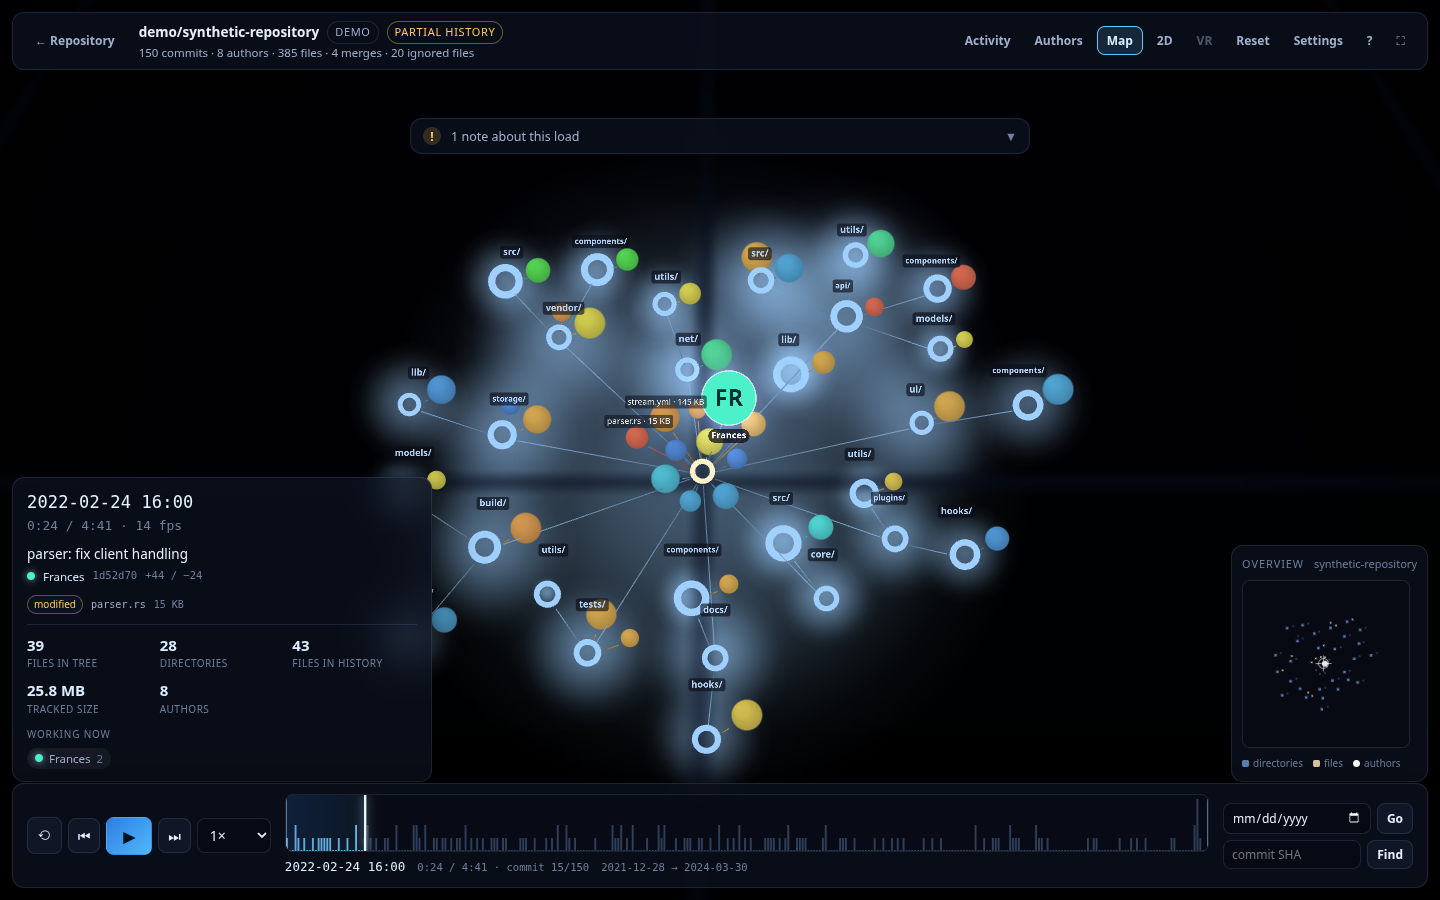
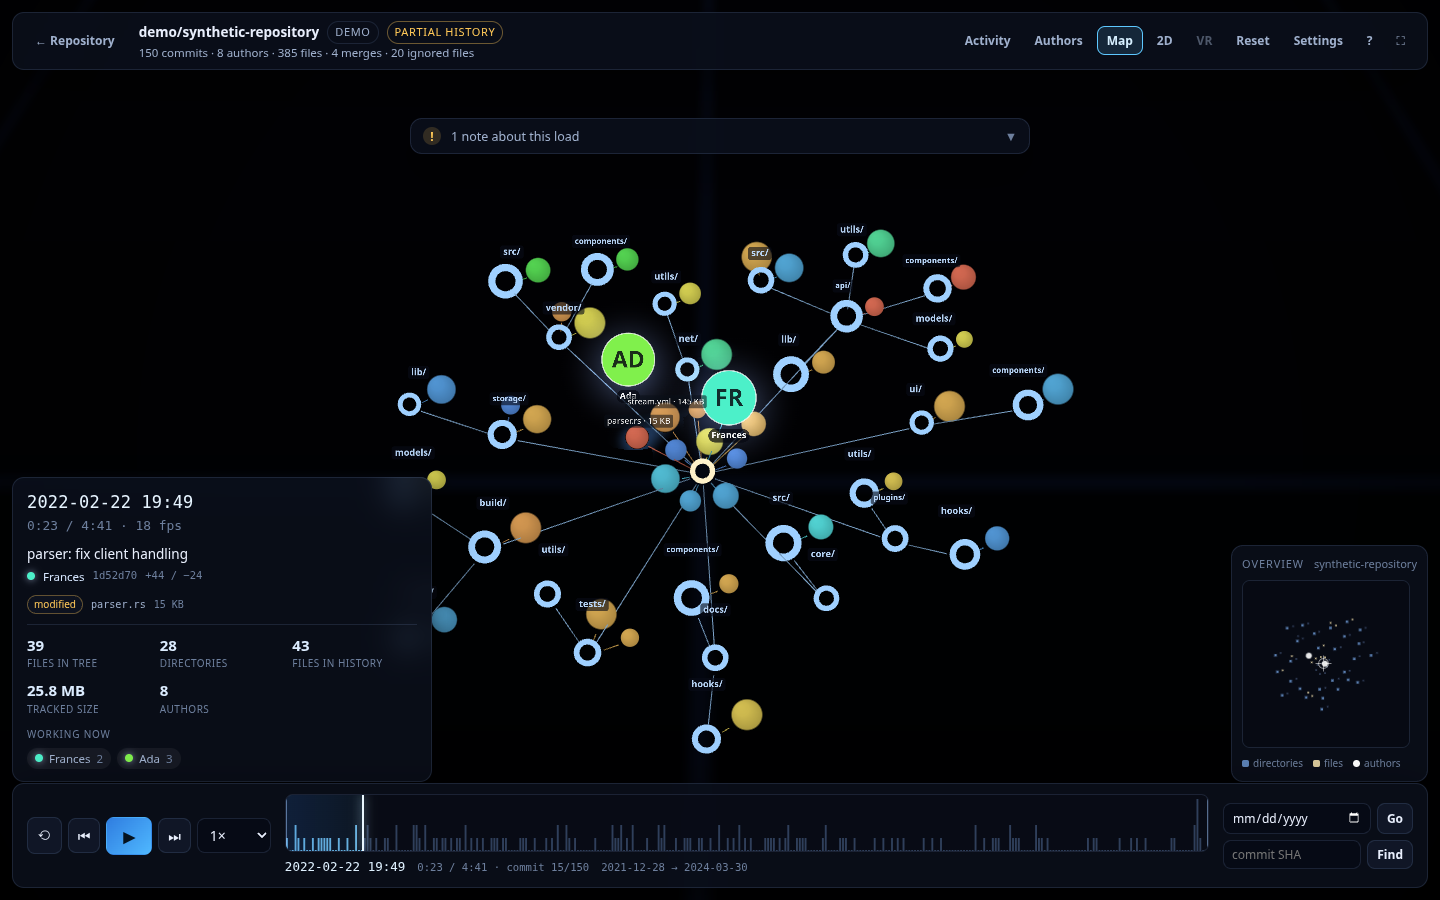
docs: describe the VR timeline, free camera and new scene defaults
- Document the in-scene VR panel, its headset-relative placement, the 2 s
  gaze dwell and the between-the-eyes gaze ray.
- Document gamepad flight and gyroscope head tracking, including the click
  to recalibrate.
- Remove the folder glow from the renderer descriptions and update the
  activity plasma defaults (5 s decay, new weight/radius/height/march).
- Refresh both screenshots with the new plasma defaults.

Changed region(s): [[0.25, 0.2178, 0.75, 0.8711], [0.25, 0.9022, 0.2812, 0.9644]]

diff --git a/README.md b/README.md
@@ -165,7 +165,7 @@ tab. The decoded track is analysed once with an FFT (no `AnalyserNode`, so the
 result does not depend on the machine's real-time performance) into a few
 envelopes sampled every ~21 ms:
 
-* **bass** (25–150 Hz) rotates the hue of each folder's glow and makes it
+* **bass** (25–150 Hz) rotates the plasma's hue and makes it
   breathe;
 * **claps** — short transients in 1.8–5.8 kHz — cycle and flash the file
   colours, so the palette changes with the beat;
@@ -256,6 +256,41 @@ The **2D** button in the stage toolbar switches to a flat top-down view with the
 framing, where a left-drag pans; **Reset** (or `C`) returns to the default 3D angle. Manual input
 pauses the automatic view for a few seconds.
 
+### Gamepad and head tracking
+
+The camera can also be flown directly, which is what turns the 3D view from a
+picture into a place. Both devices are opt-in in **Settings → Camera → Gamepad &
+head tracking**, and until one of them is enabled *and* actually reporting,
+nothing about the camera changes.
+
+A gamepad (standard mapping) flies a free 6-DOF camera:
+
+| input | action |
+| --- | --- |
+| left stick | rotate: yaw (left/right) and pitch (away/towards) |
+| right stick | roll (left/right) and thrust (away/towards) |
+| D-pad | strafe (left/right) and rise / sink (up/down) |
+| RT / LT | forward / back thrust (analog, added to the stick) |
+| A / cross | recalibrate the head tracking |
+
+Rotation is applied as a quaternion delta in the camera's own frame, so the sticks
+behave like a head-mounted rotation and roll is possible at all — an orbit camera
+cannot express roll, which is why a pad switches the view into a free mode. The
+orbit state is remembered: **Reset** (or simply dragging with the mouse) hands the
+camera straight back to the automatic tabletop view, and the automatic follow
+never fights the sticks while you fly.
+
+**Head tracking** follows the device's gyroscope: the camera orientation is the
+device orientation mapped into the scene, and its up vector is the device's up
+rotated by the gyroscope value — so the horizon follows your head instead of
+staying glued to the plane. Because the sensor is absolute, a click on the scene
+(or the gamepad's A button) **recalibrates** it: the current device pose becomes
+the reference and the view does not move, so you can aim the scene exactly at the
+orientation you are holding, hand the device to someone else, or turn away and
+back, and one click re-aims it without a jump. iOS asks for motion-sensor
+permission the first time the toggle is switched on; a refusal is reported in the
+panel instead of failing silently.
+
 ### VR and 3D spheres
 
 The stage toolbar has a **VR** button that opens the same scene in an immersive WebXR session:
@@ -263,15 +298,27 @@ The stage toolbar has a **VR** button that opens the same scene in an immersive 
 * support is probed once with `navigator.xr.isSessionSupported('immersive-vr')`. When the browser
   has no XR device (or no `navigator.xr` at all) the button is disabled and says so, instead of
   failing when it is pressed;
-* entering a session enables `renderer.xr`, requests the `local-floor` reference space and puts the
-  camera on an XR rig, so the tree sits in front of you like a table you can walk around; leaving
-  the session (or the headset ending it) restores the exact previous camera and scene transform;
+* entering a session enables `renderer.xr`, requests the `local-floor` reference space and stands you
+  at the **scene origin at the same eye height the on-screen camera has** (the tree keeps its
+  tabletop scale, centred on the origin), so what you see matches the flat view; leaving the session
+  (or the headset ending it) restores the exact previous camera and scene transform;
 * while a session is running the frames come from the XR animation loop and the glyph billboards
   face your head, not the orbit camera;
 * **files are drawn as real spheres** in VR — instanced `SphereGeometry` with a light, world-scaled
   rather than billboarded — because flat sprites read as discs once you have stereo depth. The same
   representation is available outside VR with **Settings → Visual → 3D file spheres**, which is the
   quickest way to see it without a headset. Directories keep their rings;
+* **the timeline comes with you**: a 3D panel is placed ahead of the headset and raised into the
+  upper part of the view, drawing the commit histogram, the playhead, the date and the progress,
+  plus four controls — restart, previous commit, play/pause and next commit — and the strip itself,
+  where dwelling seeks to that point in the history. It is placed from the headset pose itself, so
+  it is in front of you whatever direction the runtime picked at start-up, then stays fixed in the
+  room;
+* it is driven by **gaze**: a circular crosshair sits at the centre of your view and an element is
+  activated once the crosshair rests on it for **2 seconds**, with the ring filling over that time
+  and the hovered control highlighted. Looking away or moving to another control resets the dwell,
+  so nothing fires by accident. The gaze ray is cast from between the eyes through the panel, so it
+  works with the room-scale rig rather than the mouse;
 * nothing here is required for the normal view: without a headset the app behaves exactly as before,
   and the deterministic export ignores the XR state.
 
@@ -303,7 +350,6 @@ src/
   render/                   WebGL layers (Three.js)
     renderer.ts             scene composition, event consumption, settings, sizing
     nodes.ts                instanced file/directory nodes with capacity growth
-    glow.ts                 Gource's directory bloom (additive halos)
     edges.ts                branch edges as a single growable line buffer
     particles.ts            additive particle pool for activity effects and author trails
     authors.ts              pooled avatar sprites with a texture cache
@@ -311,7 +357,7 @@ src/
     camera.ts               orbit camera with Gource-style automatic framing
     minimap.ts              2D overview of the tree, authors and camera position
     palette.ts              extension/author/change colours
-    textures.ts             canvas texture caches (labels, avatars, glows, ball + bloom sprites)
+    textures.ts             canvas texture caches (labels, avatars, ball sprites)
   engine/
     engine.ts               playback clock, simulation driving, camera, HUD, recording hooks
     controller.ts           app orchestration: load, filters, seek, settings, recording
@@ -385,7 +431,7 @@ Given the same history and settings, the same sequence of events is produced:
 
 ### Rendering
 
-![Files rendered as Gource's lit balls inside a folder's bloom halo](docs/screenshot-glow.png)
+![Files and folders as Gource's lit balls and rings on the tabletop plane](docs/screenshot-glow.png)
 
 * Files and directories are two `InstancedMesh` objects — Gource's lit ball sprite for files, rings
   for directories — rendered as camera-facing billboards through a perspective orbit camera. The
@@ -393,17 +439,15 @@ Given the same history and settings, the same sequence of events is produced:
   perspective attenuation: a file keeps the same apparent size on the near and far sides of the
   tilted tree, while its radius still encodes the real file size. In the flat 2D view the whole tree
   shares one depth, so the compensation drops out and the original planar framing is reproduced
-  exactly. Layer order: the backdrop gradient, then the folder glow — the first element layer, drawn
-  with the depth test off so nothing can hide it and it can never hide anything — then branches, the
-  camera-following grid, the activity plasma, circles, particles, rays, authors and labels (front).
-  Every layer above the glow is drawn on top with the depth test on, so a nearer circle occludes a
-  branch, a ray, a particle or a plasma blob behind it. Both layers grow by reallocating and copying
-  instance buffers when a repository turns out to be larger than expected.
+  exactly. Layer order: the backdrop gradient, then branches, the camera-following grid, the activity
+  plasma, circles, particles, rays, avatars and labels (front). Every element layer is depth tested,
+  so a nearer circle occludes a branch, a ray, a particle or a plasma blob behind it. Both layers grow
+  by reallocating and copying instance buffers when a repository turns out to be larger than expected.
 * File sprites use the ball from Gource's own `data/file.png` (a highlight above and to the left,
   darkening towards the rim), tinted by the instance colour, so a file still carries its own colour
   but reads as a sphere rather than a flat disc. The transparent margin around the ball is discarded
-  by an alpha test, so the ball — not its square quad — is what writes depth and occludes the folder
-  glow behind it. Directory rings are alpha-tested the same way, so a ring honours `opacity` when it
+  by an alpha test, so the ball — not its square quad — is what writes depth and occludes what lies
+  behind it. Directory rings are alpha-tested the same way, so a ring honours `opacity` when it
   fades and its square footprint can never leave a dark corner in the depth buffer.
 * Branch edges share one `LineSegments` buffer with two vertices per node. They are opaque and
   depth tested, so the node circles (drawn slightly in front) **occlude** them — a branch disappears
@@ -412,7 +456,7 @@ Given the same history and settings, the same sequence of events is produced:
   edge. A branch whose two circles already touch is dropped rather than drawn as a stub inside one.
 * Activity effects and author trails come from a single additive `Points` pool with a free-list (no
   allocations per commit); particle sizes are given in screen pixels, so sparks stay the same size
-  at any zoom level. The glow halos and author→file beam quads are also billboarded towards the
+  at any zoom level. The author→file beam quads are also billboarded towards the
   camera, so they keep facing it while it orbits.
 * Author→file beams are one dynamic mesh rebuilt per frame (two quads per beam: glow + core), so a
   commit touching twenty files still costs a single draw call. They are depth tested like the rest of
@@ -430,29 +474,19 @@ Given the same history and settings, the same sequence of events is produced:
   camera-following grid keeps panning, orbiting and zooming readable. The grid is a transparent
   overlay, so depth testing (not the draw order) is what keeps it behind the tree: the billboards
   write depth first and the grid is rejected wherever they cover it. The depth stack is explicit —
-  grid −0.6, branches 0, billboards +0.25, effects +0.5; the folder glow is not part of it, because
-  it is painted together with the backdrop before any of them. The minimap shows the whole tree
+  grid −0.6, branches 0, billboards +0.25, effects +0.5. The minimap shows the whole tree
   with the current view position.
-* The glow is Gource's bloom layer (`GlowField`): one additive halo per directory, sized
-  `clusterRadius * 2` and tinted `directoryColour * bloomIntensity`, using a reproduction of
-  Gource's `bloom.tga` falloff (`1 - smoothstep(0, 0.72, r)`, peaking at half white). Every halo —
-  the root's included — takes the same `activityTint` the plasma volume uses, so the two layers read
-  as one light instead of two different blues. The halos are **background light**: they are painted
-  right after the backdrop and before every element, with depth testing switched off, so they never
-  brighten (or get cut into by) the branch lines, circles, beams and avatars drawn on top of them.
-  Settings → Scene switches the layer off or drives the intensity from 0 to 1.5 (Gource's default is
-  0.75).
 * The **activity plasma** (`PlasmaField`) is a ray-marched density volume that forms around the
   files with the most recent changes. Every file carries a heat value in 0…1, bumped by each
-  activity event and decaying exponentially (4 s by default); the hottest files (up to 64) become
+  activity event and decaying exponentially (5 s by default); the hottest files (up to 64) become
   spherical metaball sources whose strength and radius both scale with their heat, so a cold file
   contributes nothing and heat alone drives the blob in and out. The summed field is rasterised into
   a 128² texture each frame and the fragment shader marches the slab covering the sources, which
   keeps the per-pixel cost bounded instead of looping over every file. It is drawn **after** the
   branch lines and the circles, with the depth test on, so their silhouettes clip the volume instead
-  of the glow washing across them; particles, beams, avatars and labels still draw on top. It shares
-  one tint with the folder glow (see above), and its own `opacity` scales how much of the volume is
-  added — the shipped default (intensity 0.60, opacity 0.35) is a faint haze. Settings → Visual
+  of the volume washing across them; particles, beams, avatars and labels still draw on top. It is
+  tinted by the shared activity tint, and its own `opacity` scales how much of the volume is
+  added — the shipped default (intensity 0.50, full opacity) draws a dim, defined surface. Settings → Visual
   toggles it and exposes the intensity, opacity, surface sharpness, metaball weight, blob radius,
   heat decay, volume height and march quality.
 * Resizing, device pixel ratio and full disposal (geometries, materials, textures, renderer) are
@@ -629,13 +663,13 @@ Export uses `MediaRecorder` with `HTMLCanvasElement.captureStream()` — everyth
 * music analysis: band isolation for bass, folders, lines and the vocal range, sparse-transient
   clap detection with onset counting, silence, low sample rates, and sampling outside the track;
 * audio-reactive layers: claps cycling file colours and restoring the palette when the track
-  stops, bass rotating the glow hue, and midrange brightness on the branches; the controller
+  stops, bass rotating the plasma's hue, and midrange brightness on the branches; the controller
   provider (live position sampling, export timestamps, the pause freeze and the on/off toggle);
 * microphone: the capture graph and its gain, the shared fade envelope (kept while recording), live
   band analysis matching the batch bands, the recording mix, teardown, and permission failures;
 * the plasma field: heat bumping and exponential decay, heat-gated source selection (hottest first,
-  capped), volume bounds and rasterised density, the audio hue/brightness match with the folder
-  glow, setting clamps (opacity included), and its render order after the circles and before every
+  capped), volume bounds and rasterised density, the audio hue/brightness match with the shared
+  activity tint, setting clamps (opacity included), and its render order after the circles and before every
   later transparent layer;
 * the exported overlay: the panel layout at 720p, 1080p and portrait (no overlaps), the overview
   heading, legend and map drawing inside the panel, and `overview: false` skipping it;
@@ -645,9 +679,7 @@ Export uses `MediaRecorder` with `HTMLCanvasElement.captureStream()` — everyth
 * rendering bookkeeping: instance allocation, capacity growth, hidden nodes collapsing on both dirty
   *and* full syncs (a seek or restart must not leave the previous frame on screen), every layer
   dropping its instances when the history is rebuilt (node ids are per simulation, so a filter change
-  must not keep rendering the old tree), folder glow (one halo per directory sized from the cluster
-  radius, intensity baked into the instance colours, drawn as background light with depth testing
-  off), edge buffers, particle
+  must not keep rendering the old tree), edge buffers, particle
   pool limits and decay, tabletop orbit (plane-normal up vector)/pan/zoom, the flat 2D view
   preserving the orbit, and billboard orientation and fixed-size compensation;
 * controller end-to-end flows with a mocked API: loading, filters, SHA/date jumps, cancellation,
